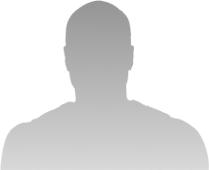
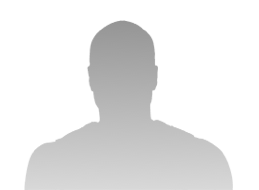
[#54] Resized placeholder image

Changed region(s): [[0.0, 0.0, 1.0, 1.0]]

diff --git a/src/components/players/list/index.js b/src/components/players/list/index.js
@@ -23,8 +23,6 @@ class List extends React.Component {
 
     renderPlayers() {
         const { players, selectedTeam, selectedTeamColor } = this.props;
-        console.log(this.props);
-        console.log(selectedTeam, 'here');
 
         return players.map((player, index) => {
             const isSelected = this.state.selectedId === player.person_id;
@@ -60,7 +58,6 @@ class List extends React.Component {
     };
 
     render() {
-        console.log(this.props);
         return (
             <div className={styles.playersListContainer}>
                 {this.renderPlayers()}
@@ -71,7 +68,7 @@ class List extends React.Component {
 
 const mapStateToProps = (state) => {
     return { players: state.players, selectedTeam: state.selectedTeam, selectedTeamColor: state.selectedTeamColor };
-}
+};
 
 export default connect(mapStateToProps,
         {

diff --git a/src/actions/actions.js b/src/actions/actions.js
@@ -4,7 +4,6 @@ export const getTeams = () => async dispatch => {
     const allTeamsResponse = await dataNbaNet.get('/prod/2019/teams_config.json');
     const nbaTeamsArray = Object.values(allTeamsResponse.data.teams.config).filter(team => team.ttsName);
     dispatch({ type: 'GET_TEAMS', payload: nbaTeamsArray });
-    console.log(nbaTeamsArray);
     
     const raptorsTeam = nbaTeamsArray.find(team => team.teamId === '1610612761'); 
     dispatch({ type: 'GET_SELECTED_TEAM', payload: raptorsTeam });

diff --git a/src/components/app.js b/src/components/app.js
@@ -23,6 +23,6 @@ const App = () => {
       </BrowserRouter>
     </div>
   );
-}
+};
 
 export default App;
